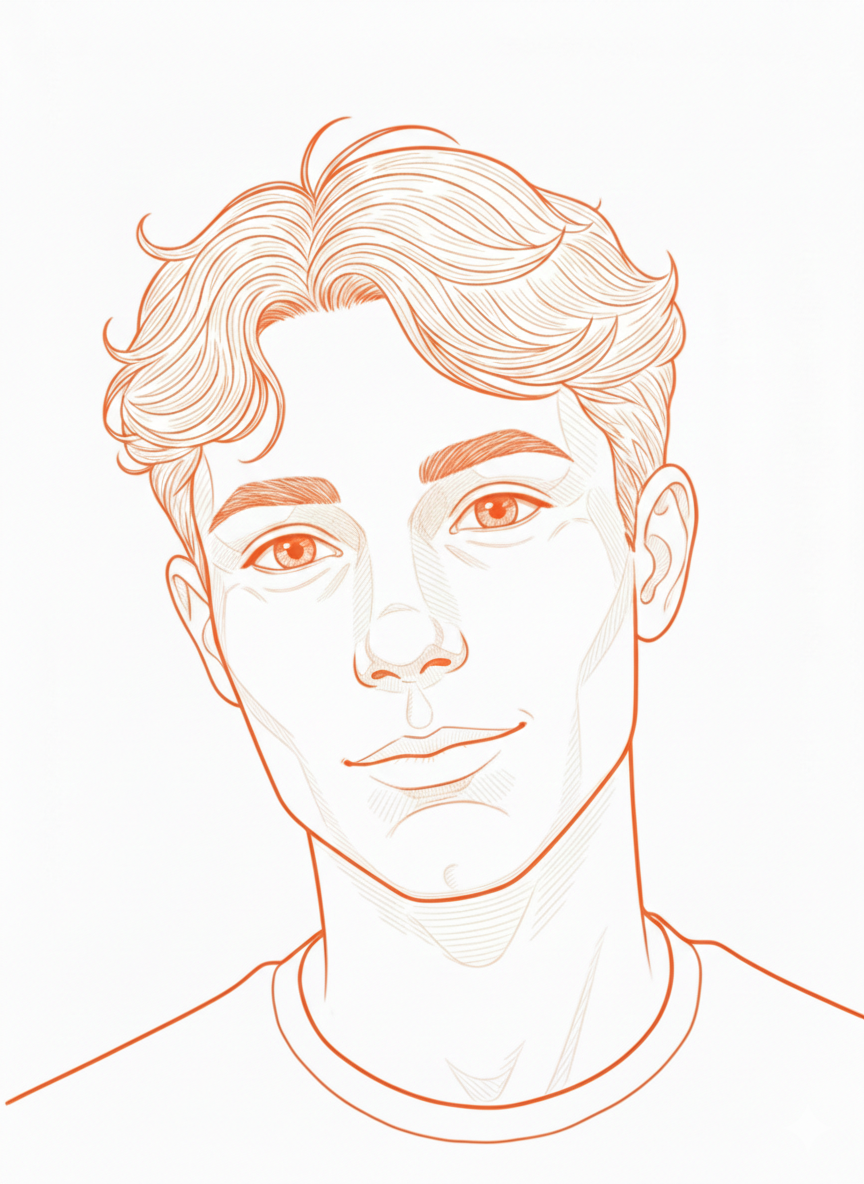
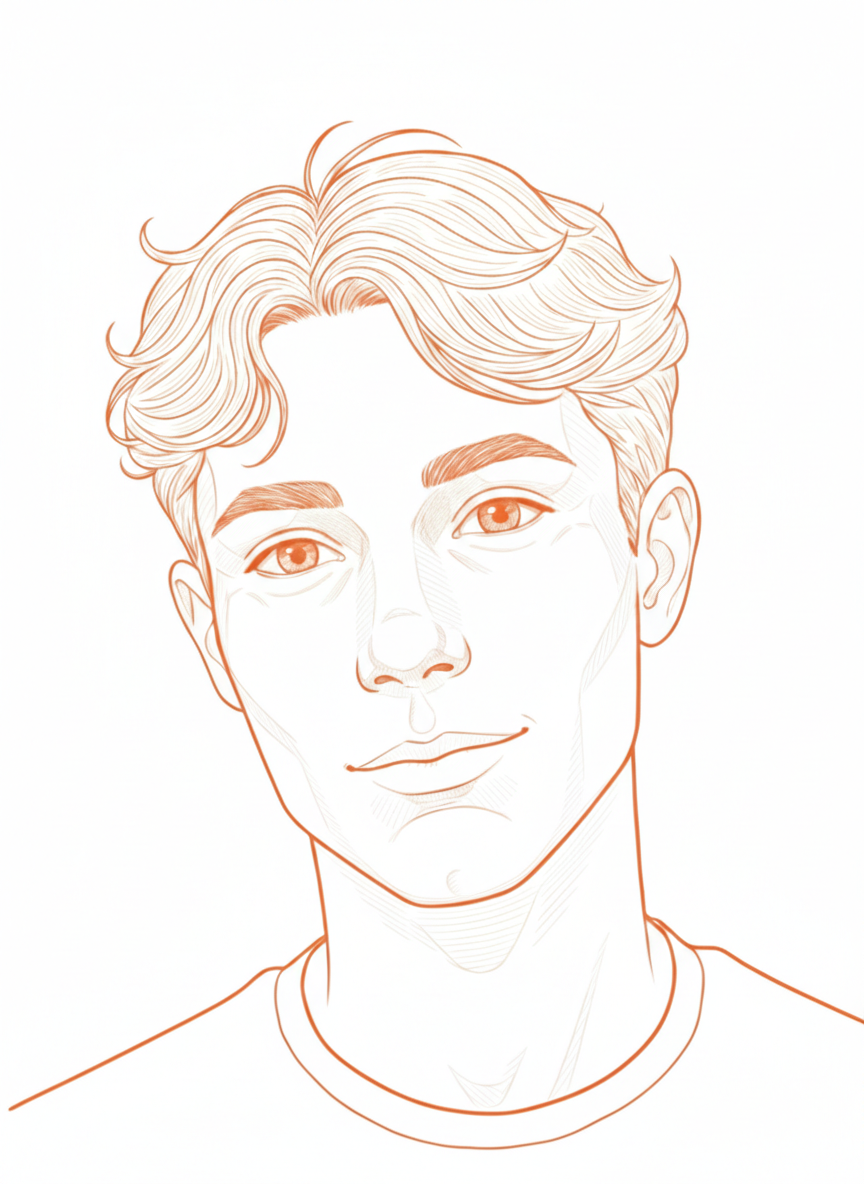
update vari
principalmente correzione della methodology - aggiornamenti scroll, nav e info -  e della pagina team (scalatura immagini)

diff --git a/pages/methodology.html b/pages/methodology.html
@@ -122,17 +122,22 @@
                                 </tr>
                                 <tr>
                                     <td>Economic Damage*</td>
-                                    <td>&lt; $1 million - NONE</td>
-                                    <td>$1–5 million - LIMITED</td>
-                                    <td>$5–24 million - SEVERE</td>
-                                    <td>≥ $25 million -</td>
+                                    <td>&lt; $2.4 million (LIMITED)</td>
+                                    <td>$2.4–12 million (MODERATE)</td>
+                                    <td>$12–57.6 million (SEVERE)</td>
+                                    <td>≥ $57.6 million (EXTREME) </td>
                                 </tr>
                             </tbody>
                         </table>
                         
                         <!-- NOTA AGGIUNTIVA - aggiunta nota per chiarimenti -->
                         <div class="table-note">
-                            *For those events not offering a monetary evaluation of damage, the following five-level scale was used to classify damage (1990 dollars) and was listed in the Damage De column. If the actual dollar amount of damage was listed, a descriptor was also added for search purposes. When possible, a rough estimate was made of the dollar amount of damage based upon the description provided, in order to choose the damage category. In many cases, only a single descriptive term was available. These terms were converted to the damage categories based upon the authors apparent use of the term elsewhere. In absence of other information, LIMITED is considered synonymous with slight, minor, and light, SEVERE as synonymous with major, extensive, and heavy, and EXTREME as synonymous with catastrophic. Note: The descriptive terms relate approximately to current dollar values.
+                           *For events without a monetary damage assessment, a four‑level classification scale was applied, as shown in the “Damage” column. 
+                           When a dollar value was available, a descriptive label was still included for research purposes. Where feasible, an approximate monetary estimate was inferred from the description to assign the appropriate category. 
+                           Single descriptive terms were mapped to categories based on their established usage in comparable sources.
+                           In the absence of further detail, terms were interpreted as follows: <b>LIMITED</b> (slight, minor, light), <b>MODERATE</b> (medium‑level damage), <b>SEVERE</b> (major, extensive, heavy), <b>EXTREME</b> (catastrophic). 
+                           <br>
+                           <br><b>Descriptive terms correspond to the 2026 dollar values.</b>
                         </div>
                     </div>
                     

diff --git a/pages/methodology.js b/pages/methodology.js
@@ -323,7 +323,7 @@ function setupLearnMoreButton() {
     });
 }
 
-// GESTIONE SCROLL TESTO
+// GESTIONE SCROLL TESTO - scroll vari
 function handleTextScroll() {
     if (!textScrollArea || isScrolling) return;
     
@@ -331,14 +331,17 @@ function handleTextScroll() {
     scrollTimeout = setTimeout(() => {
         const scrollTop = textScrollArea.scrollTop;
         const scrollHeight = textScrollArea.scrollHeight;
+        const clientHeight = textScrollArea.clientHeight;
         
-        // Calcolo sezione in base allo scroll
-        const sectionHeight = scrollHeight / 3;
+        // (1) Calcolo con OFFSET AUMENTATO!
+        const sectionHeight = (scrollHeight - clientHeight) / 3;
         let newSectionId = currentSectionId;
         
-        if (scrollTop < sectionHeight) {
+        /* OFFSET (correzioni varie + modifica da r.388)
+        - IMPOSTATO +150 per migliore funzionam. */
+        if (scrollTop < sectionHeight + 150) {
             newSectionId = 1;
-        } else if (scrollTop < sectionHeight * 2) {
+        } else if (scrollTop < (sectionHeight * 2) + 150) {
             newSectionId = 2;
         } else {
             newSectionId = 3;
@@ -349,6 +352,7 @@ function handleTextScroll() {
         }
     }, 100);
 }
+
 /* SCROLL - freccia */
 function handleScrollHintClick() {
     if (isScrolling) return;
@@ -374,21 +378,45 @@ function scrollToSection(sectionId) {
         return;
     }
     
-    // Calcolo posizione di scroll
+    // (2) Calcolo con OFFSET AUMENTATO!
     const scrollHeight = textScrollArea.scrollHeight;
-    const sectionHeight = 1950 / 3;
-    const targetScroll = (sectionId - 1) * sectionHeight;
+    const clientHeight = textScrollArea.clientHeight;
+    const maxScroll = scrollHeight - clientHeight;
+    const sectionHeight = maxScroll / 3;
+    
+    let targetScroll;
+    
+    // !! POSIZIONI AGGIORNATE CON OFFSET
+    switch(sectionId) {
+        // (1) - leggera correzione
+        case 1:
+            targetScroll = 0 - 10;
+            break;
+        // (2) - utile per evitare taglio titolo da parte della nav
+        case 2:
+            targetScroll = sectionHeight - 115 ; 
+            break;
+        // (3) - correzione per minore spazio scroll
+        case 3:
+            targetScroll = (sectionHeight * 2) + 120; //
+            break;
+        default:
+            targetScroll = 0;
+    }
+    
+    // ! LIMITA AL MASSIMO SCROLL POSSIBILE
+    targetScroll = Math.min(maxScroll, targetScroll);
     
     // Aggiornamento immediato di sezione
     updateSection(sectionId);
     
-    // Scroll alla posizione
+    // Scroll alla posizione calcolata
     textScrollArea.scrollTo({
         top: targetScroll,
         behavior: 'smooth'
     });
     
-    // Rilascio lock
+    // Rilascio lock dopo lo scroll
     setTimeout(() => {
         isScrolling = false;
     }, 600);

diff --git a/pages/sketch_team.js b/pages/sketch_team.js
@@ -55,12 +55,12 @@ function setup() {
 function setupImageConfigs() {
   // IMMAGINI - aggiustamento dimensioni
   displayConfigs = [
-    { scale: 1.15, offsetY: -10, offsetX: 0 },   // Alice
-    { scale: 1.0, offsetY: 0, offsetX: 0 },   // Matilde
-    { scale: 1.15, offsetY: 0, offsetX: 0 },   // Greta
-    { scale: 0.90, offsetY: 0, offsetX: 0 },   // Carlo
-    { scale: 1.40, offsetY: 0, offsetX: 0 },   // Ilaria
-    { scale: 1.15, offsetY: 0, offsetX: 0 }    // Annalisa
+    { scale: 1.15, offsetY: -15, offsetX: 0 },   // alice
+    { scale: 1.00, offsetY: 0, offsetX: 0 },   // matilde
+    { scale: 1.15, offsetY: 0, offsetX: 0 },   // greta
+    { scale: 0.90, offsetY: 0, offsetX: 0 },   // carlo
+    { scale: 1.40, offsetY: 0, offsetX: 0 },   // ilaria
+    { scale: 1.15, offsetY: 0, offsetX: 0 }    // annalisa
   ];
 }
 

diff --git a/pages/methodology.css b/pages/methodology.css
@@ -103,7 +103,7 @@ header {
     z-index: 1000;
     background-color: white;
     transition: all 0.3s ease;
-    height: 90px;
+    height: 67px;
     box-sizing: border-box;
 }
 
@@ -417,7 +417,7 @@ header {
 #html-footer {
     width: 100%;
     border-top: 2px solid #FF2B00;
-    padding: 80px 0px 70px 230px;
+    padding: 80px 5px 70px 265px;
     margin: 0;
     display: grid;
     grid-template-columns: 1fr 1fr 1fr;
